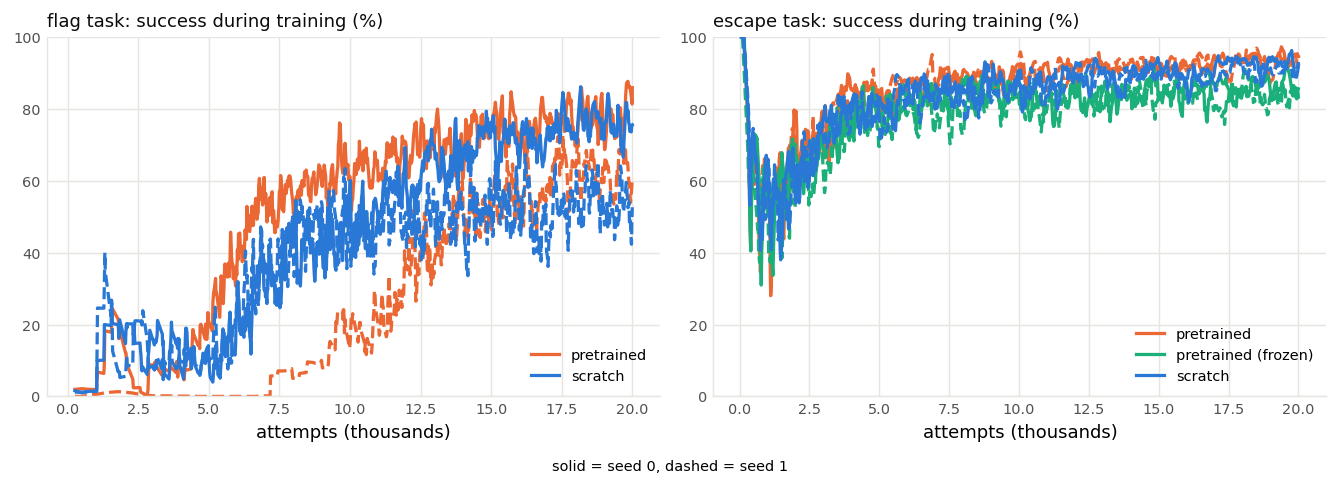
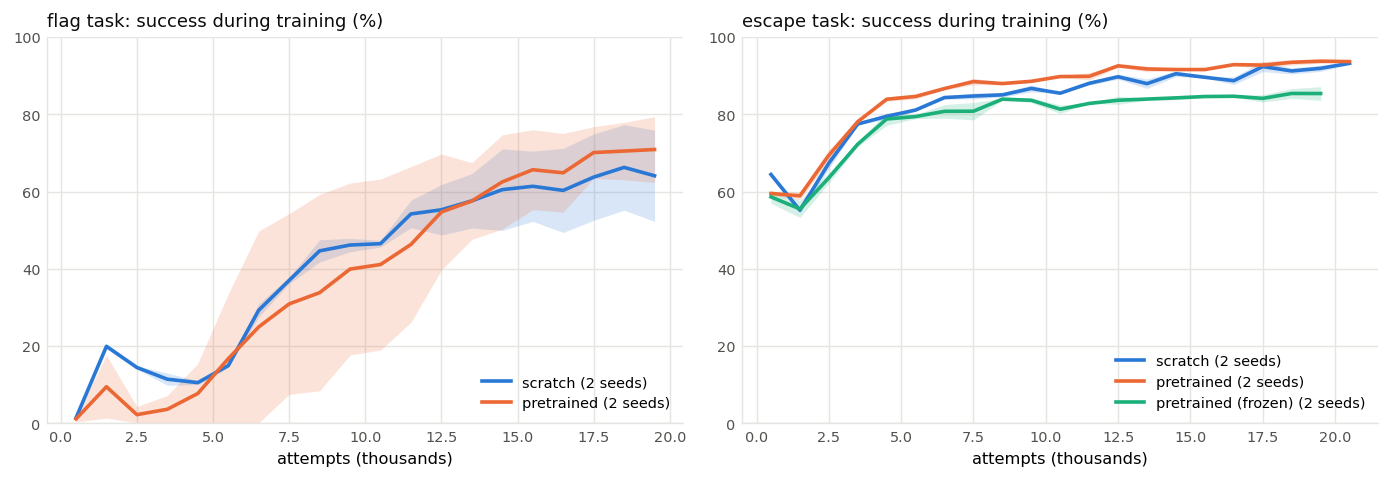
Transfer report: round T3 predictions; clearer curve plot
Claude-Session: https://claude.ai/code/session_01TiL2QkPcJCr4NiqeaYmXLT

diff --git a/scripts/transfer_summary.py b/scripts/transfer_summary.py
@@ -54,30 +54,45 @@ def main():
         plot(runs, a.plot)
 
 
-def plot(runs, path):
+def blocks(history, size=1000, total=None):
+    """Average training success in consecutive blocks of ``size`` attempts (by attempts finished)."""
+    e, s = np.asarray(history["episodes"]), np.asarray(history["success"])
+    total = total or int(e[-1])
+    mids, vals = [], []
+    for a in range(0, total, size):
+        m = (e > a) & (e <= a + size)
+        if m.any():
+            mids.append((a + size / 2) / 1000)
+            vals.append(s[m].mean() * 100)
+    return np.array(mids), np.array(vals)
+
+
+def plot(runs, path, panels=None):
+    """One panel per task; one line per starting point (mean of seeds), band = range across seeds."""
     import matplotlib
     matplotlib.use("Agg")
     import matplotlib.pyplot as plt
     from mazerl.viz import SERIES, _style
-    tasks = sorted({r["task"] for r in runs}, reverse=True)
-    labels = sorted({label(r) for r in runs}, key=lambda l: (l != "scratch", l))
+    tasks = panels or sorted({r["task"] for r in runs}, reverse=True)
+    order = ["scratch", "pretrained", "pretrained (frozen)", "random perception (frozen)"]
+    labels = sorted({label(r) for r in runs}, key=lambda l: (order.index(l) if l in order else 9, l))
     color = {l: SERIES[i % len(SERIES)] for i, l in enumerate(labels)}
-    fig, axes = plt.subplots(1, len(tasks), figsize=(5.2 * len(tasks), 3.6), squeeze=False)
+    fig, axes = plt.subplots(1, len(tasks), figsize=(5.4 * len(tasks), 3.8), squeeze=False)
     for ax, task in zip(axes[0], tasks):
-        seen = set()
-        for r in runs:
-            if r["task"] != task:
+        for l in labels:
+            group = [r for r in runs if r["task"] == task and label(r) == l]
+            if not group:
                 continue
-            l = label(r)
-            h = r["history"]
-            ax.plot(np.asarray(h["episodes"]) / 1000, smooth(h["success"]) * 100, color=color[l], lw=1.8,
-                    ls="-" if r["seed"] == 0 else "--", label=l if l not in seen else None)
-            seen.add(l)
+            curves = [blocks(r["history"]) for r in group]
+            n = min(len(c[0]) for c in curves)
+            x = curves[0][0][:n]
+            ys = np.array([c[1][:n] for c in curves])
+            ax.fill_between(x, ys.min(0), ys.max(0), color=color[l], alpha=0.18, lw=0)
+            ax.plot(x, ys.mean(0), color=color[l], lw=2, label=f"{l} ({len(group)} seeds)")
         _style(ax, f"{task} task: success during training (%)")
-        ax.set_xlabel("attempts (thousands)")
+        ax.set_xlabel("attempts (thousands)", fontsize=9)
         ax.set_ylim(0, 100)
         ax.legend(frameon=False, fontsize=8, loc="lower right")
-    fig.text(0.5, -0.02, "solid = seed 0, dashed = seed 1", ha="center", fontsize=8)
     fig.tight_layout()
     Path(path).parent.mkdir(parents=True, exist_ok=True)
     fig.savefig(path, dpi=130, bbox_inches="tight")

diff --git a/reports/pretraining-transfer.md b/reports/pretraining-transfer.md
@@ -106,3 +106,12 @@ pretraining.
 still learning, on escape, 2 seeds: reaches 90% training success **sooner than** reward-free
 pretraining (under 5k attempts) and weak-spot mazes **at least as high** (≥ 82%). Reason: RL on the
 flag task trained the perception on exactly what escape needs (walls, gaps, weak spots).
+
+## Round T3 predictions (written after T2, before running T3)
+The still-learning comparison gave a small escape advantage (2–3 points in average training success,
+both seeds) and a split result on the flag task (one seed ahead, one behind). Two more seeds (2 and 3,
+each with its own pretraining run) for scratch and pretrained on both tasks, 20k:
+- **Escape:** pretrained above scratch on both new seeds, by 1–4 points of average training success
+  over the run, and higher success on weak-spot mazes in the test.
+- **Flag:** no consistent direction. Across all four seeds, the pretrained-minus-scratch difference in
+  average training success changes sign at least once.
